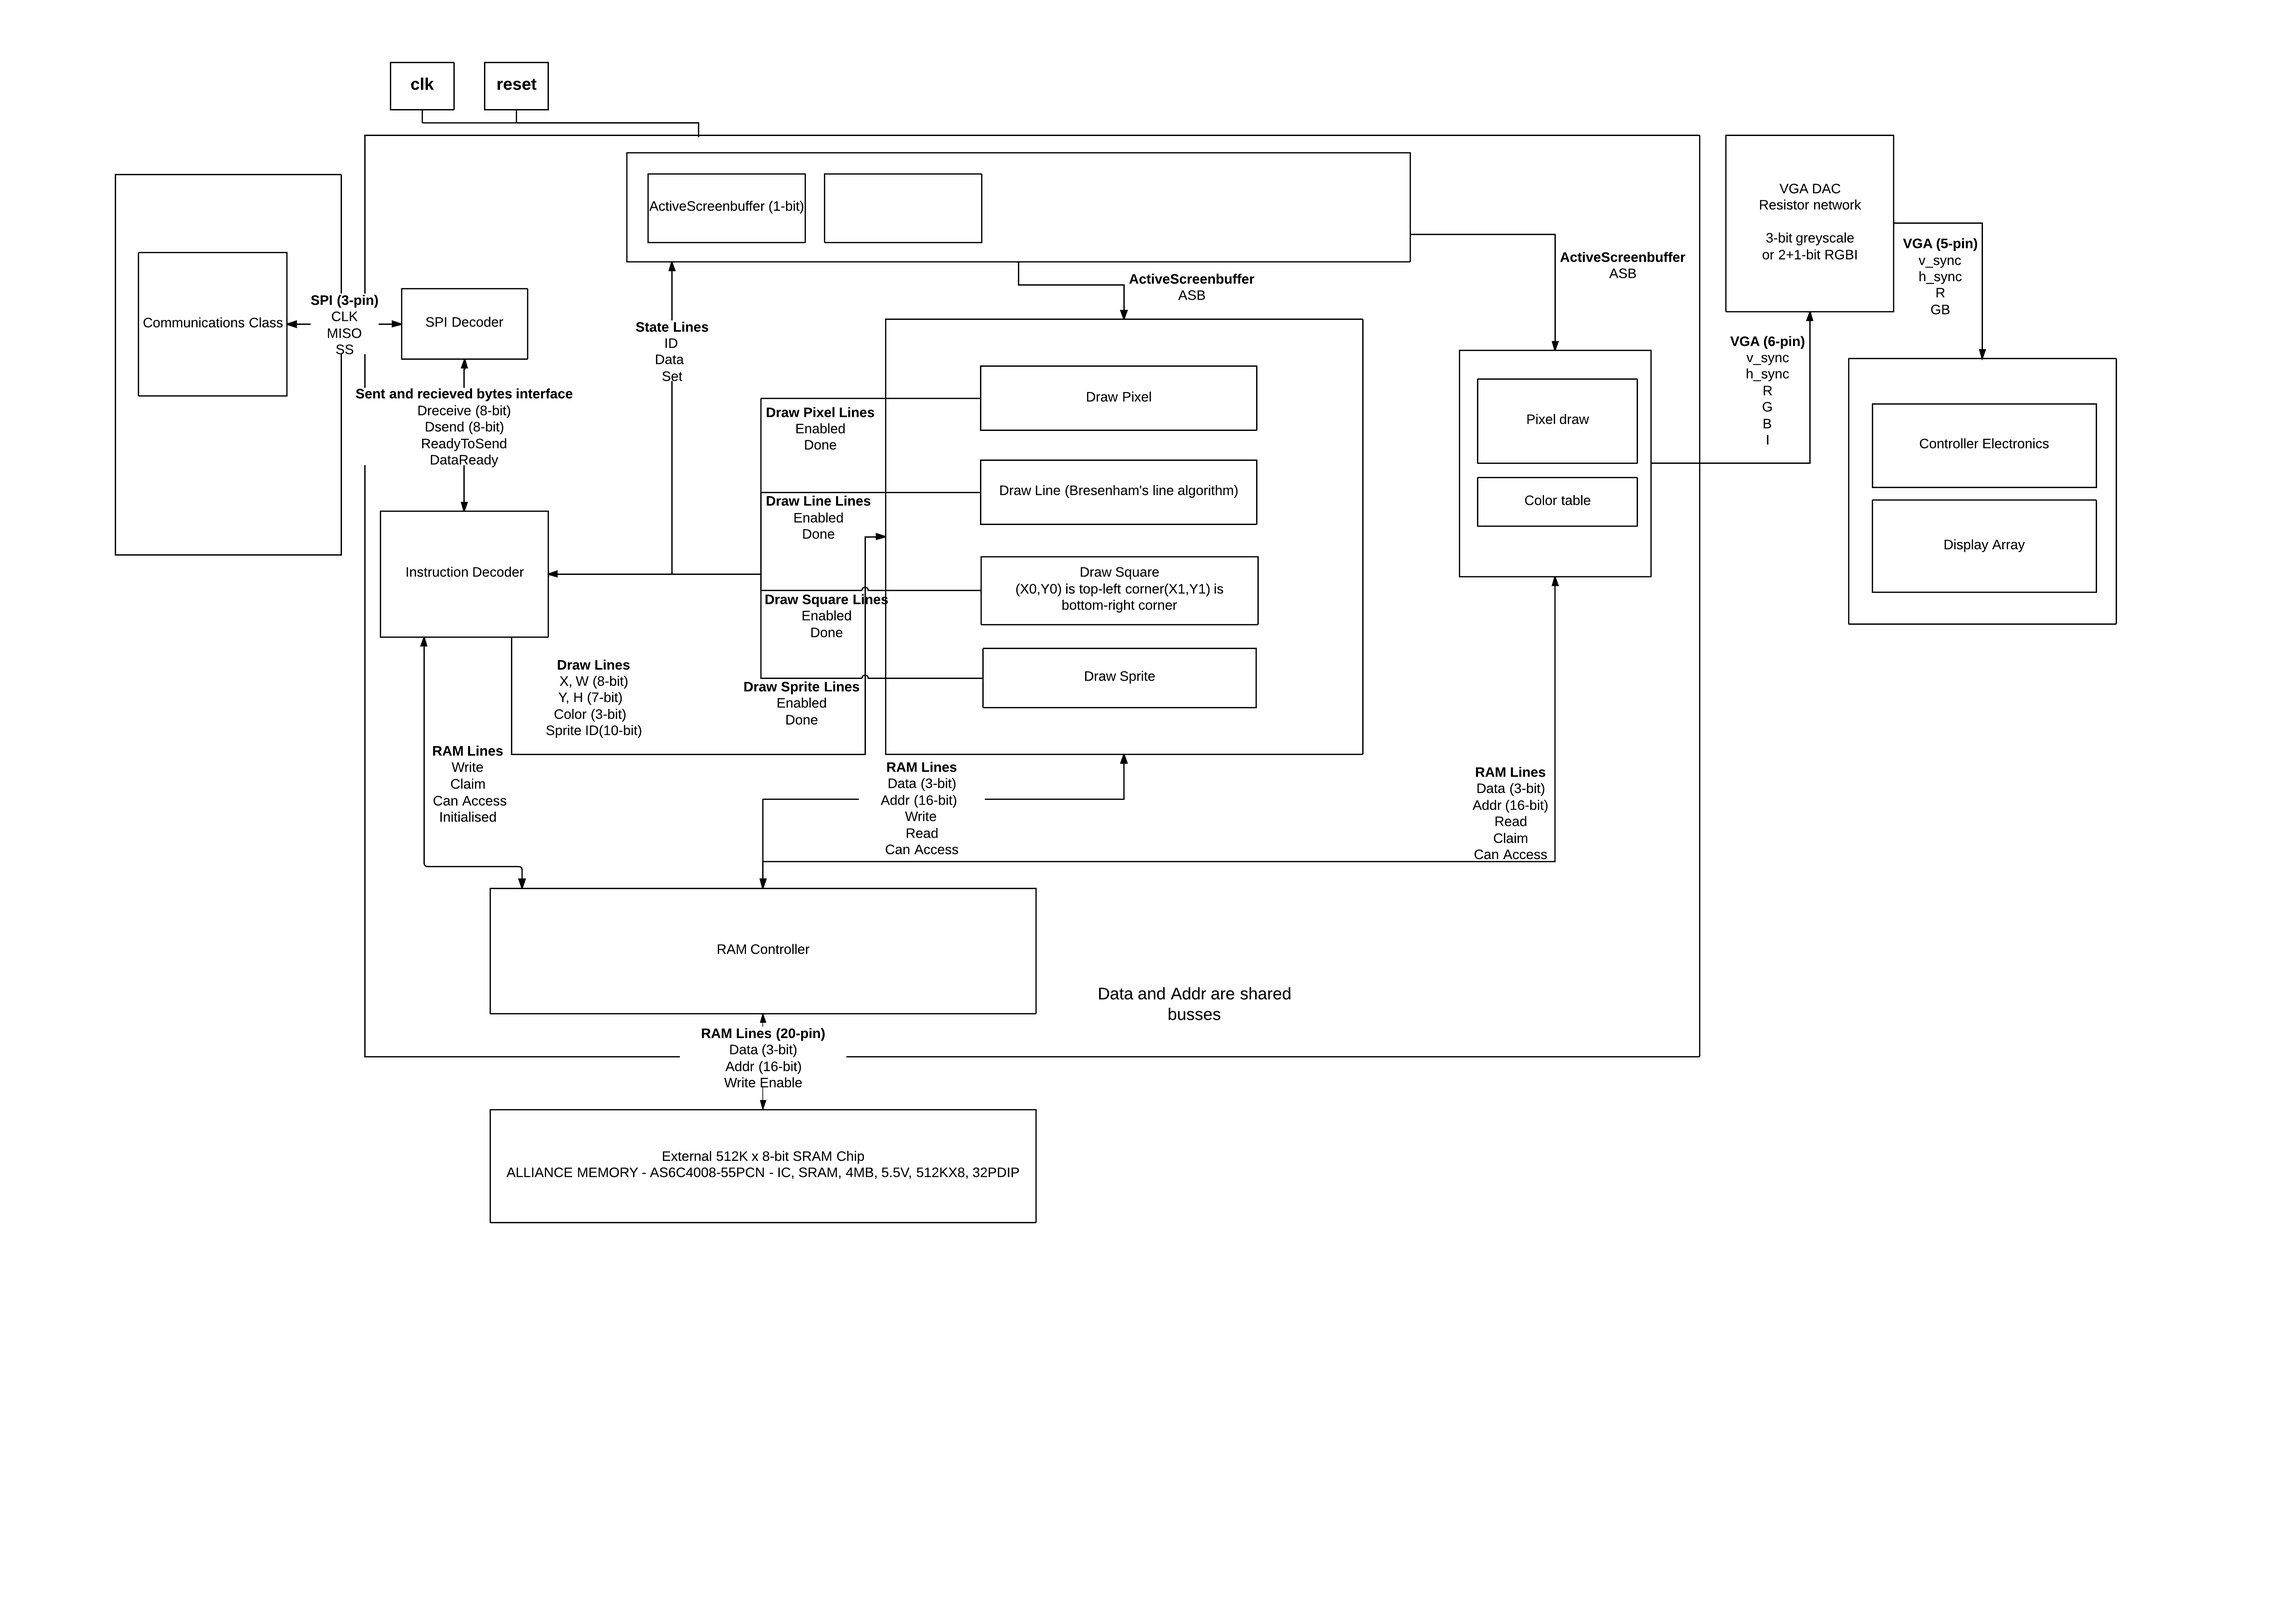
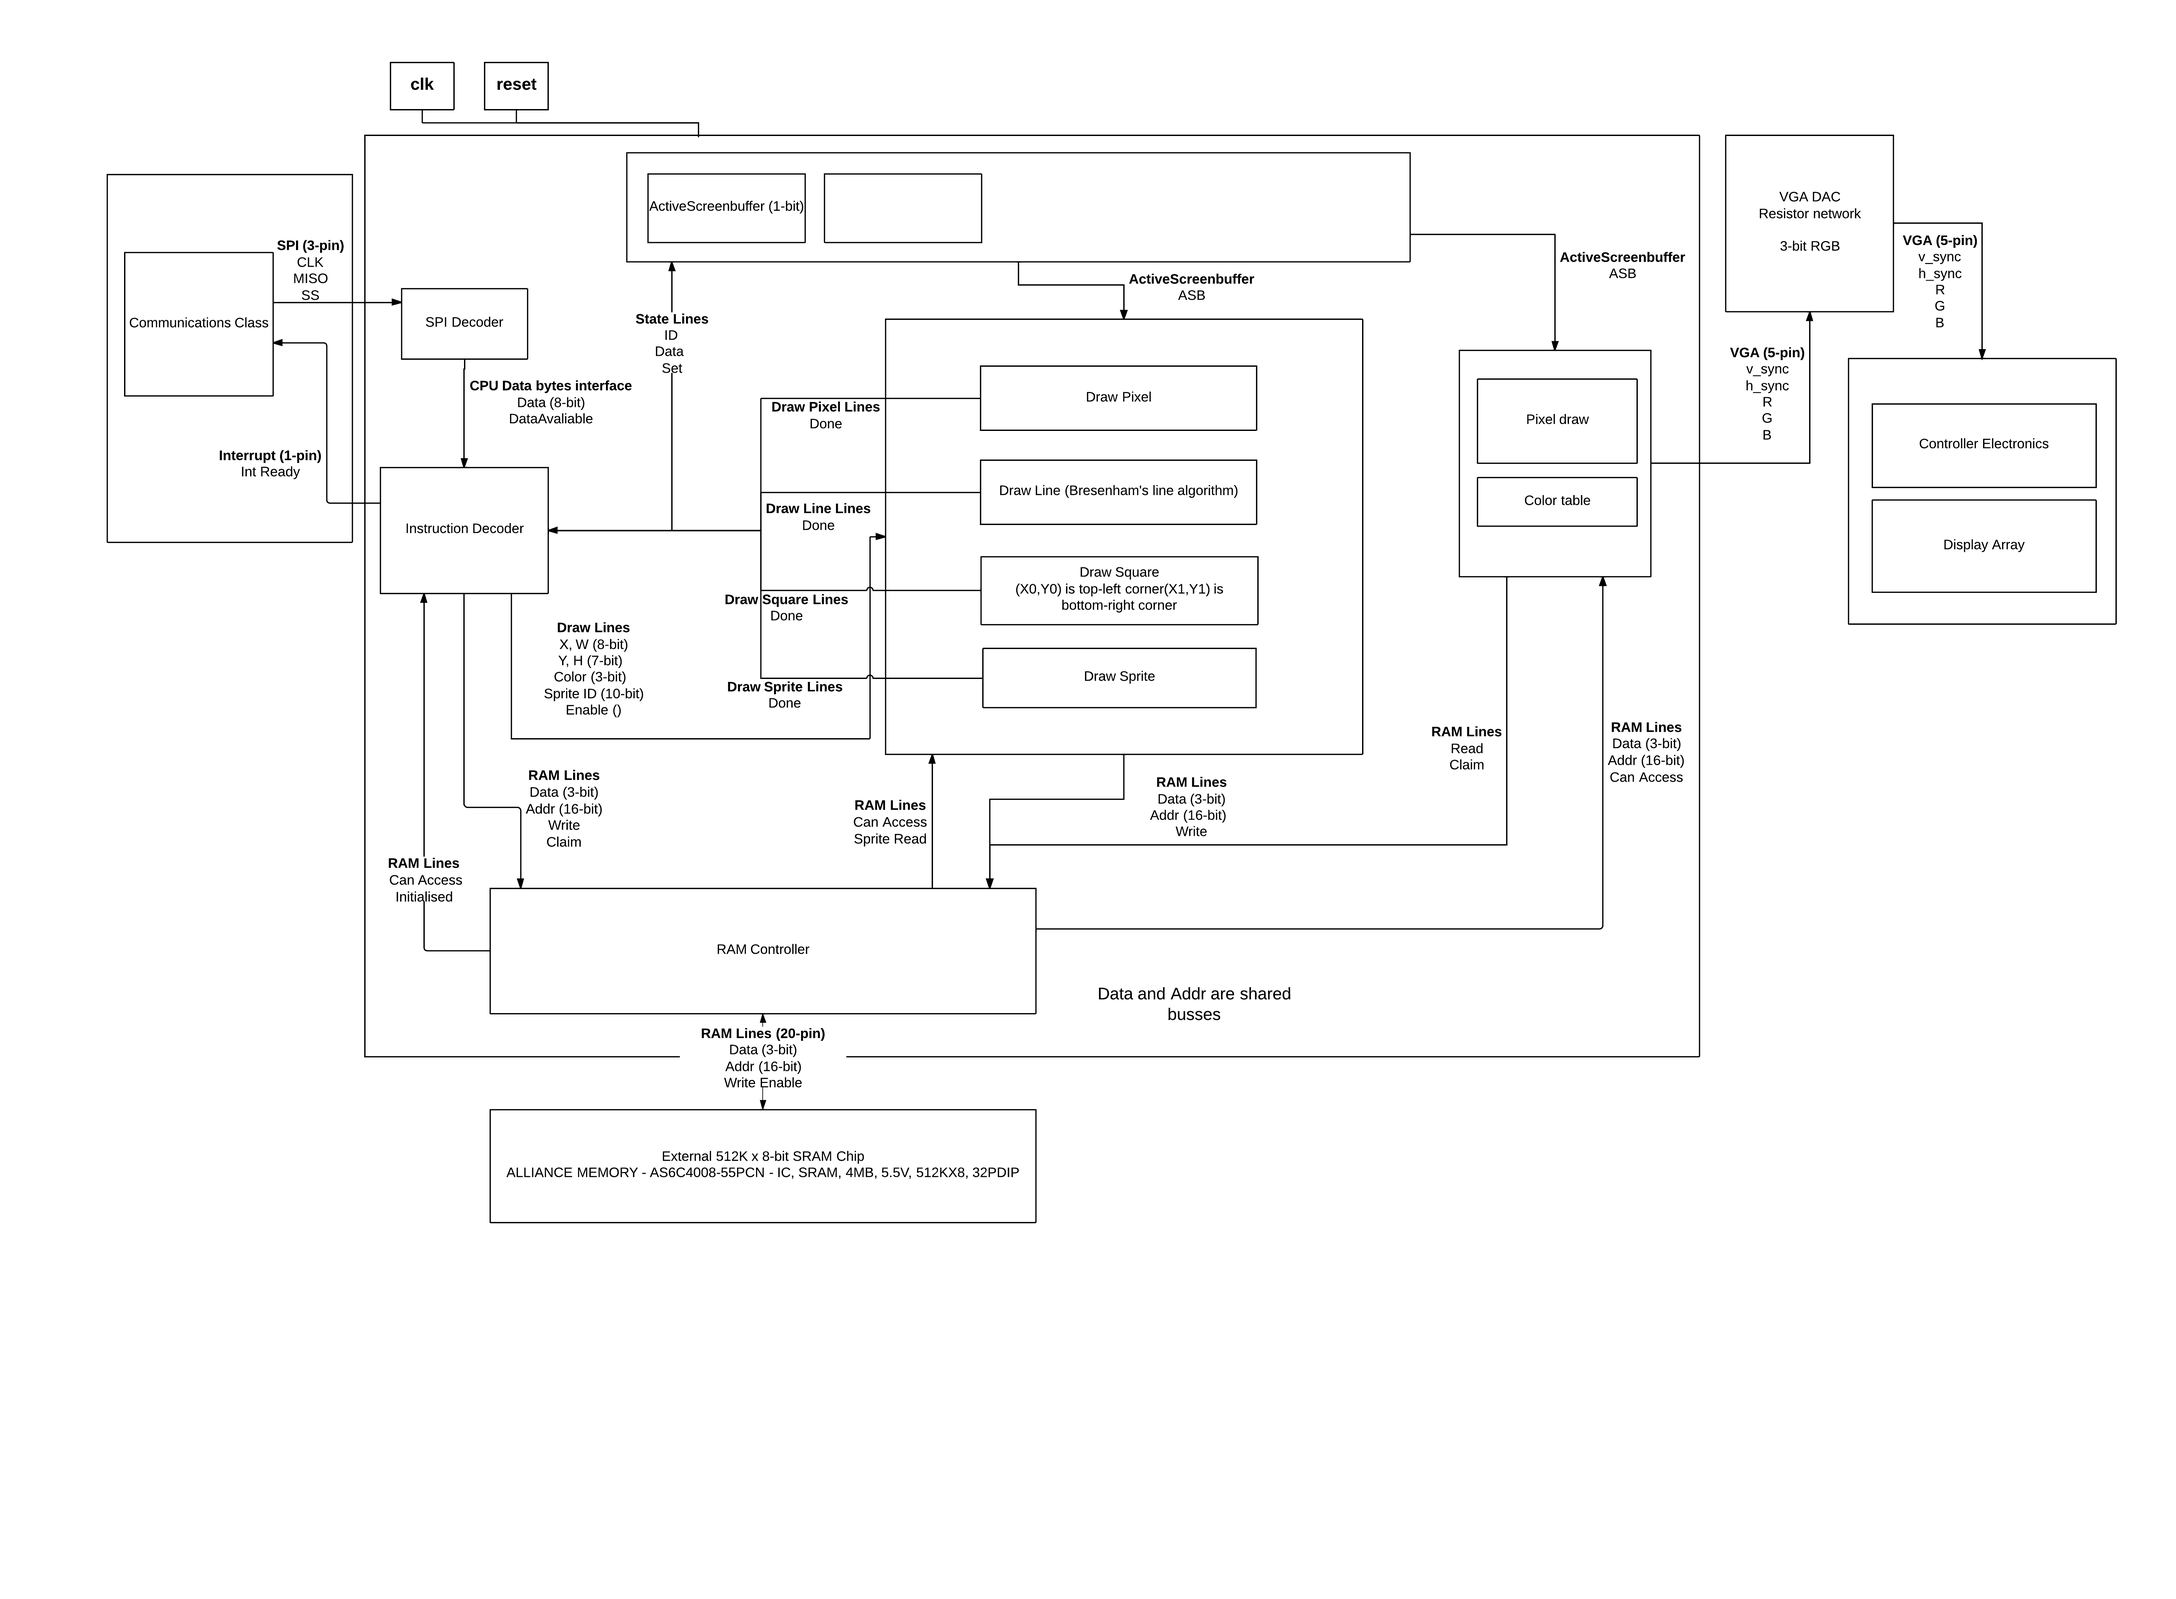
Updated system overview for design

diff --git a/docs/eindrapport/ontwerp/ontwerp.tex b/docs/eindrapport/ontwerp/ontwerp.tex
@@ -109,15 +109,21 @@ De in- en uitgangen zijn gespecificeerd in Tabel \ref{tab:spec-decoder}.
 	reset & in & std\_logic \\	
 	spi\_data\_rx & out & std\_logic\_vector(SizeSPIData-1 downto 0) \\
 	spi\_data\_available & in & std\_logic \\
+	draw\_ready & in & std_logic\\ 	
 	x &  buffer & std\_logic\_vector(SizeX-1 downto 0) \\
 	w &  buffer & std\_logic\_vector(SizeX-1 downto 0) \\
 	y &  buffer & std\_logic\_vector(SizeY-1 downto 0) \\
 	h &  buffer & std\_logic\_vector(SizeY-1 downto 0) \\
 	color &  buffer & std\_logic\_vector(SizeColor-1 downto 0) \\
+	id &  buffer & std\_logic\_vector(SizeSpriteID-1 downto 0) \\
 	en & buffer & std\_logic\_vector(NumDrawModules-1 downto 0)\\
+	asb & buffer & std\_logic \\ 
+	int\_ready & out & std\_logic \\
 	decoder\_can\_access & in & std\_logic \\
 	decoder\_claim & out & std\_logic \\
 	is\_init & out & std\_logic \\
+	 ramaddr & out & std\_logic\_vector(SizeRAMAddr-1 downto 0) \\
+	 ramdata & out & std\_logic\_vector(SizeRAMData-1 downto 0) \\
   	\hline
 \end{tabular}
 \end{table}
@@ -293,7 +299,7 @@ In deze module wordt een sprite uitgelezen/ingeschreven vanuit het RAM en geteke
 	ramaddr &out & std\_logic\_vector(SizeRAMAddr-1 downto 0) \\
 	ramdata &out & std\_logic\_vector(SizeRAMData-1 downto 0) \\
 	draw\_write &out & std\_logic \\
-	draw\_read&out & std\_logic \\
+	draw\_read &out & std\_logic \\
 	draw\_can\_access & in & std\_logic \\
   	\hline
 \end{tabular}
